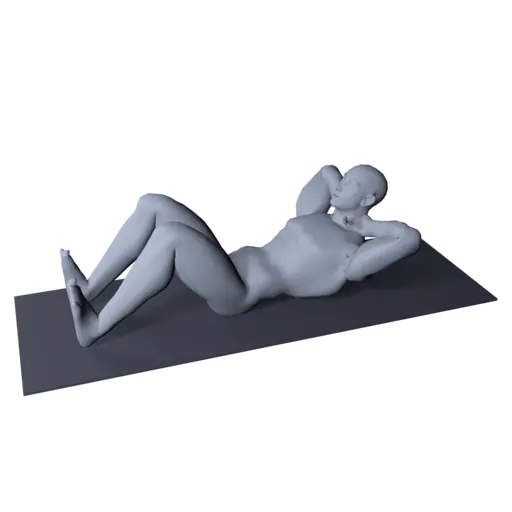
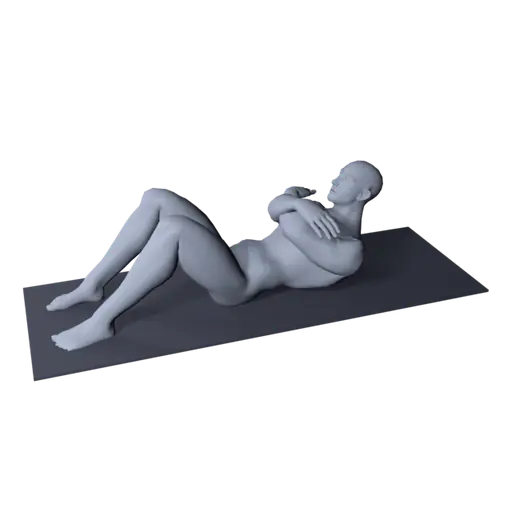
3D-ілюстрації: руки тримають снаряд, правильний хват

Changed region(s): [[0.0312, 0.3125, 0.9688, 0.7812], [0.875, 0.5, 0.9062, 0.5312], [0.2188, 0.4375, 0.25, 0.4688]]

diff --git a/service-worker.js b/service-worker.js
@@ -3,7 +3,7 @@
 //   • код застосунку (навігація, *.js, *.css) — network-first: свіжа версія підтягується
 //     при кожному онлайн-запуску, а офлайн працює з кешу;
 //   • іконки/шрифти/маніфест — cache-first (рідко змінюються), із докешуванням у рантаймі.
-const CACHE = 'kachalka-v63';
+const CACHE = 'kachalka-v64';
 // фото рецептів: окремий кеш, який не стирається при кожному оновленні версії
 const IMG_CACHE = 'kachalka-recipe-img-v1';
 const ASSETS = [

diff --git a/js/app.js b/js/app.js
@@ -4615,7 +4615,7 @@ async function guideText(id) {
     return base; // перекладу немає — українською
   }
 }
-const EX_IMG_V = 2; // підняти після перерендеру img/exercises — SW віддає їх із кешу (cache-first)
+const EX_IMG_V = 3; // підняти після перерендеру img/exercises — SW віддає їх із кешу (cache-first)
 function guideMediaHTML(id, cls = '') {
   // два кадри (старт / фінал) м'яко змінюють один одного; немає файлу — блок ховається
   return `<div class="guide-media ${cls}">

diff --git a/js/version.js b/js/version.js
@@ -1,2 +1,2 @@
 // згенеровано deploy.sh
-export const APP_VERSION = '2026-10-07 18:46';
+export const APP_VERSION = '2026-10-07 19:04';
